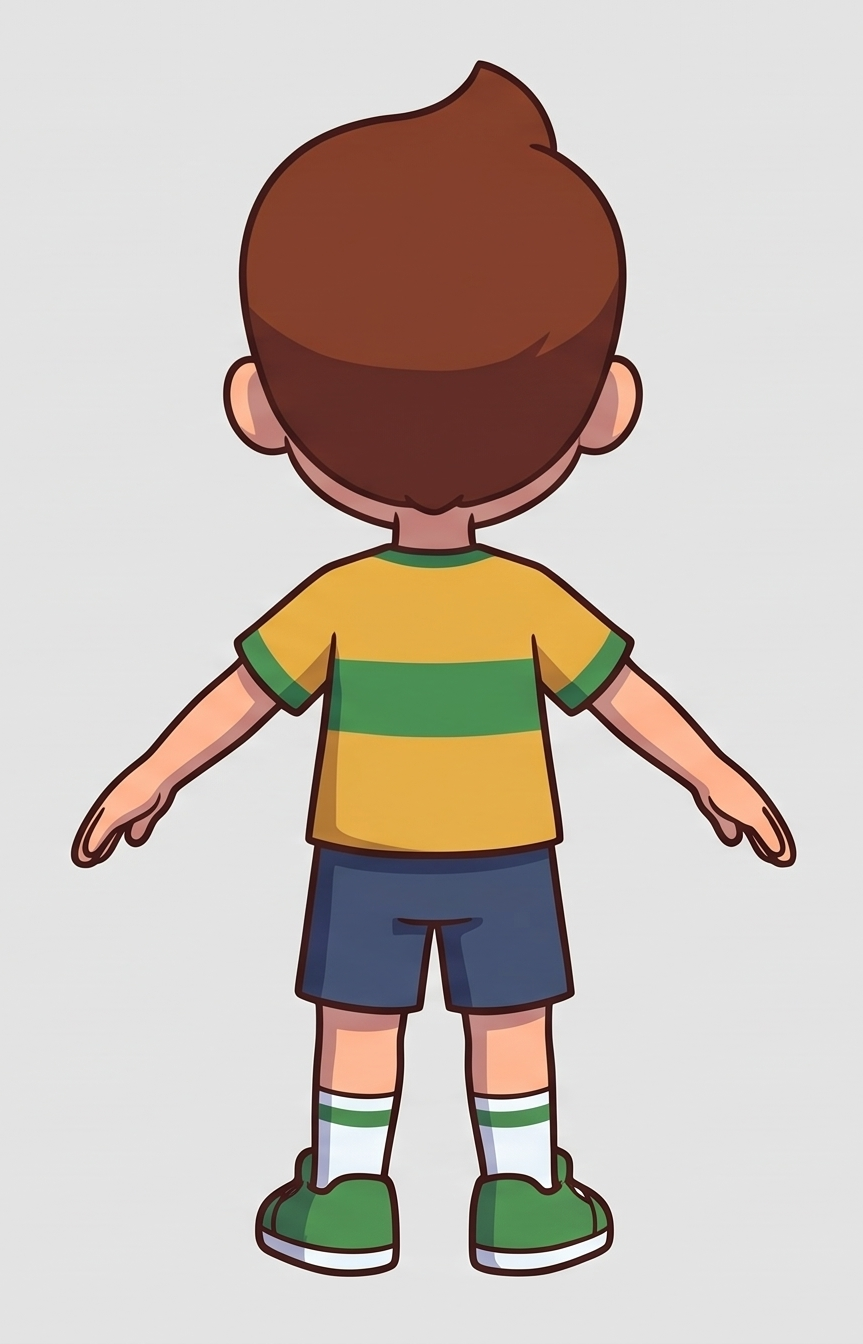
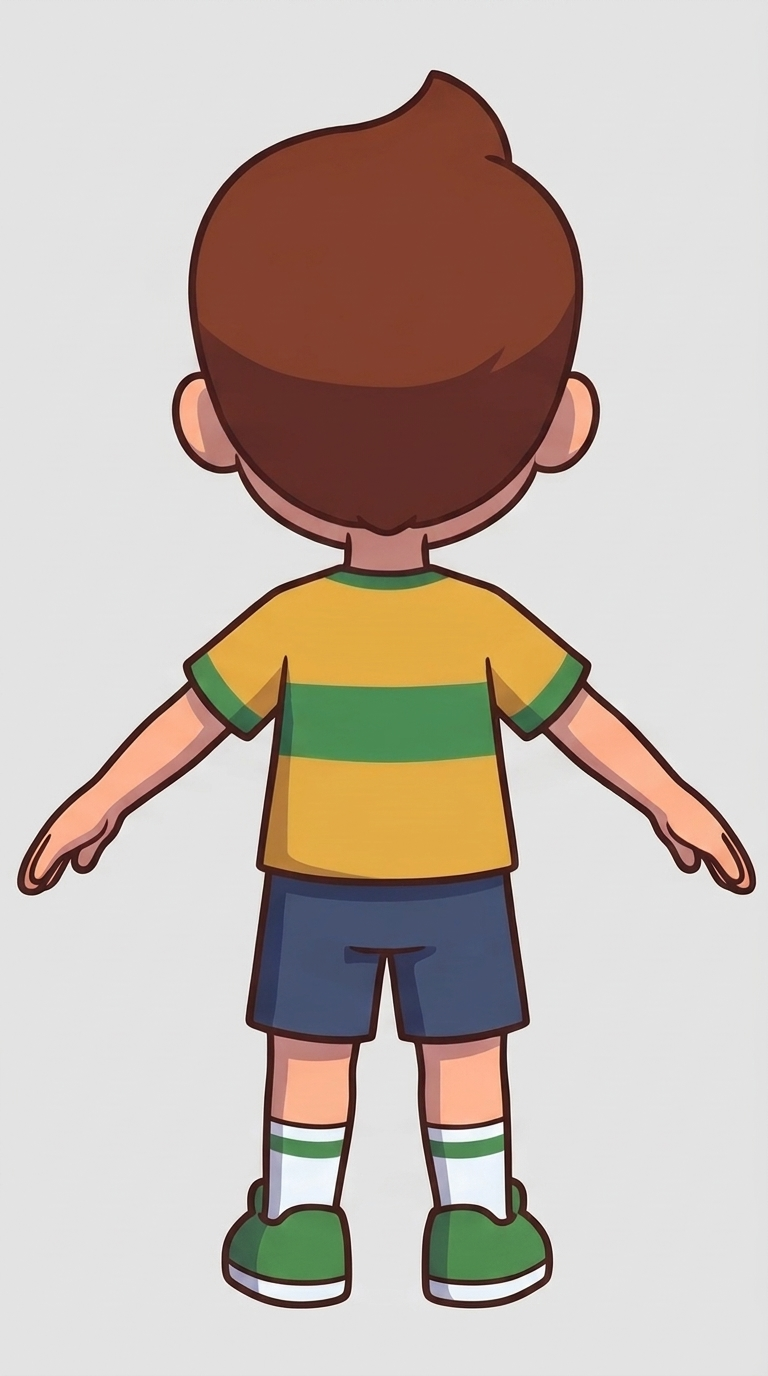
Add prop kits 1-3, girl/boy turnaround sheets, fix boy's shoes
- Prop kit briefs (ground/paths, fences/gates/hedges/walls, signs/boards/
  food boxes) with canonical style blocks; sheets generated with Gemini,
  chosen variants in review; new Props section on the art review page
- Girl and boy turnarounds regenerated as one sheet each and split
- Boy: side and back views edited so the shoes point the right way
- tools/gen_image.py: edit mode (--prompt 0), negative-prompt detection
  via the style file; tools/split_sheet.py for turnaround sheets
- Manifest: prop kit entries; CLAUDE.md: concept-art generation workflow

Changed region(s): [[0.0, 0.4375, 1.0, 0.9688], [0.2188, 0.0625, 0.7812, 0.4375], [0.375, 0.0312, 0.5938, 0.125]]

diff --git a/art/catalog.js b/art/catalog.js
@@ -375,5 +375,51 @@ window.ART_CATALOG = {
         },
       ],
     },
+    {
+      id: "props",
+      title: "Props (modular kits)",
+      intro: "Modular props modelled once and reused, generated as asset sheets from the same high camera angle. Budget ≤ 500 triangles each.",
+      items: [
+        {
+          id: "kit_ground",
+          title: "Kit 1 — ground and paths",
+          status: "in-review",
+          description: "Floor tiles: path straight/curve/T/cross/end, plaza, grass, path edge, sand.",
+          spec: "ART-ENVIRONMENT",
+          brief: "props/kit_ground/brief.md",
+          notes: "Chosen v2 (correct T-junction). v1 is an alternative. Generated with gemini-3-pro-image (2K, 16:9).",
+          images: [
+            { file: "props/kit_ground/sheet_v2.jpg", label: "sheet_v2 (chosen)", required: true },
+            { file: "props/kit_ground/sheet_v1.jpg", label: "sheet_v1 (alternative)" },
+          ],
+        },
+        {
+          id: "kit_fences",
+          title: "Kit 2 — fences, gates, hedges, walls",
+          status: "in-review",
+          description: "Wooden post-and-rail fence, gate (closed/open), tall hedge, outer zoo wall — with corners.",
+          spec: "ART-ENVIRONMENT",
+          brief: "props/kit_fences/brief.md",
+          notes: "Chosen v2. Note: the end post is drawn as a short fence segment. Generated with gemini-3-pro-image (2K, 16:9).",
+          images: [
+            { file: "props/kit_fences/sheet_v2.jpg", label: "sheet_v2 (chosen)", required: true },
+            { file: "props/kit_fences/sheet_v1.jpg", label: "sheet_v1 (alternative)" },
+          ],
+        },
+        {
+          id: "kit_signs",
+          title: "Kit 3 — signs, boards, food boxes",
+          status: "in-review",
+          description: "Enclosure sign (blank, silhouette slot), info board, map board, food box, stack of food boxes — all blank.",
+          spec: "ART-ENVIRONMENT",
+          brief: "props/kit_signs/brief.md",
+          notes: "Chosen v4. First two attempts blended the style-frame scene into the sheet; v3/v4 use the fences sheet as style reference. The enclosure sign panel is not tilted back yet. Generated with gemini-3-pro-image (2K, 16:9).",
+          images: [
+            { file: "props/kit_signs/sheet_v4.jpg", label: "sheet_v4 (chosen)", required: true },
+            { file: "props/kit_signs/sheet_v3.jpg", label: "sheet_v3 (alternative)" },
+          ],
+        },
+      ],
+    },
   ],
 };

diff --git a/tools/gen_image.py b/tools/gen_image.py
@@ -10,7 +10,8 @@ Usage:
       --out style_frame_v1.png style_frame_v2.png style_frame_v3.png --aspect 16:9
 
   --prompt N       N-th full prompt block in the brief (1-based; negative prompts and
-                   short fragments are skipped)
+                   short fragments are skipped); 0 = edit mode: send only --extra with the
+                   --ref image(s), e.g. to fix a detail in an existing image
   --out FILE...    one image is generated per file name (saved in the brief's folder)
   --ref IMAGE...   optional reference images (e.g. the approved style frame, the front view)
   --extra TEXT     appended to the prompt (e.g. "Same character as in the second image.")
@@ -71,13 +72,18 @@ def main():
     if not key:
         sys.exit("GEMINI_API_KEY is not set")
     prompts, negatives = read_blocks(a.brief)
-    if not 1 <= a.prompt <= len(prompts):
-        sys.exit(f"brief has {len(prompts)} full prompts, --prompt {a.prompt} is out of range")
-    prompt = prompts[a.prompt - 1]
-    if a.extra:
-        prompt += "\n\n" + a.extra
-    if negatives:  # Gemini has no negative-prompt field
-        prompt += "\n\nAvoid all of the following: " + negatives[0]
+    if a.prompt == 0:  # edit mode: only --extra, applied to the --ref image(s)
+        if not (a.extra and a.ref):
+            sys.exit("--prompt 0 (edit mode) needs --extra and --ref")
+        prompt = a.extra
+    else:
+        if not 1 <= a.prompt <= len(prompts):
+            sys.exit(f"brief has {len(prompts)} full prompts, --prompt {a.prompt} is out of range")
+        prompt = prompts[a.prompt - 1]
+        if a.extra:
+            prompt += "\n\n" + a.extra
+        if negatives:  # Gemini has no negative-prompt field
+            prompt += "\n\nAvoid all of the following: " + negatives[0]
 
     folder = os.path.dirname(a.brief)
     with concurrent.futures.ThreadPoolExecutor(len(a.out)) as pool:
@@ -100,8 +106,11 @@ def main():
     if done:
         today = datetime.date.today().isoformat()
         refs = ", ref: " + ", ".join(os.path.basename(r) for r in a.ref) if a.ref else ""
-        extra = " + extra text" if a.extra else ""
-        rows = "".join(f"| {today} | {n} | {a.model} ({a.size}, {a.aspect}) | — | prompt {a.prompt} + negative as 'Avoid'{refs}{extra} | generated, to review |\n"
+        if a.prompt == 0:
+            what = "edit: " + a.extra[:80].replace("|", "/") + "…"
+        else:
+            what = f"prompt {a.prompt} + negative as 'Avoid'" + (" + extra text" if a.extra else "")
+        rows = "".join(f"| {today} | {n} | {a.model} ({a.size}, {a.aspect}) | — | {what}{refs} | generated, to review |\n"
                        for n in sorted(done))
         with open(a.brief, "a", encoding="utf-8") as f:
             f.write(rows)

diff --git a/art/props/kit_signs/brief.md b/art/props/kit_signs/brief.md
@@ -1,0 +1,62 @@
+# Brief — `kit_signs` (Kit 3 — signs, boards and food boxes)
+
+Spec: ART-ENVIRONMENT (modular props), GAME-RESCUE, GAME-FEED, GAME-MAP, ART-DIRECTION §4. Style: `art/style/style.md` (comic) — style
+reference image: `art/environment/style_frame/style_frame.png` (approved). Status: **brief**.
+
+## Purpose
+
+The reading props — the core of the gameplay. All text is rendered by the game (ART-ENVIRONMENT §2), so every panel and label plate is **blank**. From the high camera the panels are tilted back towards the camera (≈ 30–45°) so they stay readable.
+
+Props are modelled once and reused (ART-ENVIRONMENT, modular props). Budgets: props
+≤ 500 triangles each, flat-colour textures only (ART-PIPELINE §10).
+
+## Props in this kit
+
+| Asset id | Size (game units, 1 = 1 m) | Notes |
+|---|---|---|
+| `enclosure_sign` | ≈ 2 m wide, on two posts | blank panel + round silhouette slot; tilted back |
+| `info_board` | ≈ 1 m wide, panel at child eye height | blank panel on one post, tilted back like a lectern |
+| `map_board` | ≈ 2.5 m wide | blank map panel with a small roof |
+| `food_box` | ≈ 0.6 m cube | closed wooden crate with blank label plate |
+| `food_box_stack` |  | three stacked food boxes |
+
+## Image settings
+
+- One asset sheet, **16:9, 2K**, generated with the style frame as reference image.
+- Generate 2 variants (`sheet_v1`, `sheet_v2`), pick one; single props can later be cut out
+  for modelling reference.
+
+## Prompt (`sheet.png`)
+
+First paragraph = STYLE block from `art/style/style.md`, verbatim.
+
+```text
+Comic-style 3D cartoon game art with a cel-shaded look: bold clean dark-brown outlines around every object, flat colour areas with one hard-edged shadow tone, simple rounded chunky shapes with friendly exaggerated proportions, big expressive eyes on people and animals, like a colourful children's comic book brought into 3D. No gradients, no fine texture detail, no noise. Bright warm midday sunlight from the upper left, crisp hard-edged shadows. Friendly saturated palette: fresh grass green, warm wood brown, light sand-beige paths, light stone grey, water blue, white. Clean, uncluttered, child-friendly, cheerful mobile game look, crisp focus across the whole image.
+
+Game asset sheet: the props below are laid out in a neat grid with generous empty space between them, each prop isolated and complete, nothing overlapping, nothing cropped, on a plain light grey background (#E6E6E6) with only a soft small contact shadow under each prop. Every prop is shown from the same elevated three-quarter top-down view as in a cozy zoo park simulation game (camera looking down at about 55 degrees, isometric-like, narrow field of view so vertical lines stay nearly parallel), all at the same scale.
+
+Five props in a row with generous space between them: 1) a large wooden enclosure sign on two chunky posts, a wide cream-coloured blank panel with a wooden frame and a small round cream-coloured blank slot on the left side for an animal silhouette, the panel tilted back by about 40 degrees so it faces up towards the camera; 2) a small wooden info board on a single post, a blank cream-coloured panel at the height of a child's eyes, tilted back like a reading desk, a small wooden roof above it; 3) a large wooden map board with a wide blank cream-coloured panel under a small wooden roof, on two posts; 4) a closed wooden food crate with a lid, chunky planks, a blank light label plate on its front; 5) three of the same closed food crates stacked. All panels and label plates are completely blank.
+```
+
+### Negative prompt
+
+```text
+text, letters, words, numbers, writing, captions, writing on signs, watermark, signature, logo, brand names, UI, HUD, scenery, landscape, horizon, sky, characters, people, animals, overlapping props, cropped props, perspective distortion, fisheye, eye-level view, dark, gloomy, dirty, broken, rubbish, voxels, cubes, blocky Minecraft style, pixel art, pixelated textures, photorealistic, realistic photo, realistic fur, hyper-detailed textures, soft painterly gradients, glossy plastic, anime, watercolour, sketchy lines, inconsistent line thickness
+```
+
+## Review checklist (before `concept_approved = true` — user decides)
+
+- [ ] Comic style matches `style_frame.png` (outlines, flat colours, one shadow tone).
+- [ ] All props present, same scale, same camera angle, none cropped or overlapping.
+- [ ] No text anywhere; panels and label plates blank.
+- [ ] Readable at phone size from the high camera.
+- [ ] Buildable as simple low-poly props (≤ 500 tris each).
+
+## Generation log
+
+| Date | File | Tool / model | Seed | Prompt changes | Result |
+|---|---|---|---|---|---|
+| 2026-09-26 | sheet_v1.jpg | gemini-3-pro-image (2K, 16:9) | — | prompt 1 + negative as 'Avoid' + extra text, ref: style_frame.png | discarded (style-frame scene blended into the sheet) |
+| 2026-09-26 | sheet_v2.jpg | gemini-3-pro-image (2K, 16:9) | — | prompt 1 + negative as 'Avoid' + extra text, ref: style_frame.png | discarded (style-frame scene blended into the sheet) |
+| 2026-09-26 | sheet_v3.jpg | gemini-3-pro-image (2K, 16:9) | — | prompt 1 + negative as 'Avoid' + extra text, ref: sheet_v2.jpg | alternative (extra crate, stack of four, roof on enclosure sign) |
+| 2026-09-26 | sheet_v4.jpg | gemini-3-pro-image (2K, 16:9) | — | prompt 1 + negative as 'Avoid' + extra text, ref: sheet_v2.jpg | to review — chosen (ref: kit_fences sheet_v2 instead of the style frame) |

diff --git a/art/props/kit_ground/brief.md b/art/props/kit_ground/brief.md
@@ -1,0 +1,64 @@
+# Brief — `kit_ground` (Kit 1 — ground and paths)
+
+Spec: ART-ENVIRONMENT (modular props), GAME-LAYOUT (surfaces path/grass), GAME-LEVEL-1. Style: `art/style/style.md` (comic) — style
+reference image: `art/environment/style_frame/style_frame.png` (approved). Status: **brief**.
+
+## Purpose
+
+Floor tiles for the tile-based map. Paths are faster to walk on than grass (GAME-PLAYER §6), so path and grass must be clearly different at a glance from the high camera.
+
+Props are modelled once and reused (ART-ENVIRONMENT, modular props). Budgets: props
+≤ 500 triangles each, flat-colour textures only (ART-PIPELINE §10).
+
+## Props in this kit
+
+| Asset id | Size (game units, 1 = 1 m) | Notes |
+|---|---|---|
+| `path_tile_straight` | 2 m × 2 m | light sand-beige paved path, straight |
+| `path_tile_curve` | 2 m × 2 m | 90° curve |
+| `path_tile_t` | 2 m × 2 m | T-junction |
+| `path_tile_cross` | 2 m × 2 m | crossing |
+| `path_tile_end` | 2 m × 2 m | rounded dead end |
+| `plaza_tile` | 2 m × 2 m | larger paving stones for the entrance plaza |
+| `grass_tile` | 2 m × 2 m | short fresh grass with a few tufts |
+| `path_edge` | 2 m long | low edging stones between path and grass |
+| `sand_tile` | 2 m × 2 m | warm sand for enclosure floors |
+
+## Image settings
+
+- One asset sheet, **16:9, 2K**, generated with the style frame as reference image.
+- Generate 2 variants (`sheet_v1`, `sheet_v2`), pick one; single props can later be cut out
+  for modelling reference.
+
+## Prompt (`sheet.png`)
+
+First paragraph = STYLE block from `art/style/style.md`, verbatim.
+
+```text
+Comic-style 3D cartoon game art with a cel-shaded look: bold clean dark-brown outlines around every object, flat colour areas with one hard-edged shadow tone, simple rounded chunky shapes with friendly exaggerated proportions, big expressive eyes on people and animals, like a colourful children's comic book brought into 3D. No gradients, no fine texture detail, no noise. Bright warm midday sunlight from the upper left, crisp hard-edged shadows. Friendly saturated palette: fresh grass green, warm wood brown, light sand-beige paths, light stone grey, water blue, white. Clean, uncluttered, child-friendly, cheerful mobile game look, crisp focus across the whole image.
+
+Game asset sheet: the props below are laid out in a neat grid with generous empty space between them, each prop isolated and complete, nothing overlapping, nothing cropped, on a plain light grey background (#E6E6E6) with only a soft small contact shadow under each prop. Every prop is shown from the same elevated three-quarter top-down view as in a cozy zoo park simulation game (camera looking down at about 55 degrees, isometric-like, narrow field of view so vertical lines stay nearly parallel), all at the same scale.
+
+Nine square ground tiles, each a thin flat slab of exactly the same square size, shown like board-game tiles in a 3 by 3 grid: 1) straight light sand-beige paved path made of large rounded paving stones, grass along both sides; 2) the same path as a 90-degree curve; 3) the same path as a T-junction; 4) the same path as a crossing; 5) the same path ending in a rounded dead end; 6) an entrance plaza tile fully paved with larger light paving stones in a simple pattern; 7) a plain tile of short fresh green grass with a few small tufts; 8) a long narrow strip of low rounded edging stones (a path border); 9) a tile of warm light sand. The paved paths are clearly lighter and smoother than the grass, so path and grass are easy to tell apart. Paths continue seamlessly to the tile edges so the tiles can be placed next to each other.
+```
+
+### Negative prompt
+
+```text
+text, letters, words, numbers, writing, captions, writing on signs, watermark, signature, logo, brand names, UI, HUD, scenery, landscape, horizon, sky, characters, people, animals, overlapping props, cropped props, perspective distortion, fisheye, eye-level view, dark, gloomy, dirty, broken, rubbish, voxels, cubes, blocky Minecraft style, pixel art, pixelated textures, photorealistic, realistic photo, realistic fur, hyper-detailed textures, soft painterly gradients, glossy plastic, anime, watercolour, sketchy lines, inconsistent line thickness
+```
+
+## Review checklist (before `concept_approved = true` — user decides)
+
+- [ ] Comic style matches `style_frame.png` (outlines, flat colours, one shadow tone).
+- [ ] All props present, same scale, same camera angle, none cropped or overlapping.
+- [ ] No text anywhere; panels and label plates blank.
+- [ ] Readable at phone size from the high camera.
+- [ ] Buildable as simple low-poly props (≤ 500 tris each).
+
+## Generation log
+
+| Date | File | Tool / model | Seed | Prompt changes | Result |
+|---|---|---|---|---|---|
+| 2026-09-26 | sheet_v1.jpg | gemini-3-pro-image (2K, 16:9) | — | prompt 1 + negative as 'Avoid' + extra text, ref: style_frame.png | alternative (T-junction drawn as a corner) |
+| 2026-09-26 | sheet_v2.jpg | gemini-3-pro-image (2K, 16:9) | — | prompt 1 + negative as 'Avoid' + extra text, ref: style_frame.png | to review — chosen |

diff --git a/art/props/kit_fences/brief.md b/art/props/kit_fences/brief.md
@@ -1,0 +1,64 @@
+# Brief — `kit_fences` (Kit 2 — fences, gates, hedges, walls)
+
+Spec: ART-ENVIRONMENT (modular props), GAME-LAYOUT (barrier/boundary/enclosure), GAME-LEVEL-1. Style: `art/style/style.md` (comic) — style
+reference image: `art/environment/style_frame/style_frame.png` (approved). Status: **brief**.
+
+## Purpose
+
+Everything that encloses an enclosure or seals the level. Fences keep animals in but must look friendly (never cages — glossary). Hedges and the outer wall form the permanent zoo boundary.
+
+Props are modelled once and reused (ART-ENVIRONMENT, modular props). Budgets: props
+≤ 500 triangles each, flat-colour textures only (ART-PIPELINE §10).
+
+## Props in this kit
+
+| Asset id | Size (game units, 1 = 1 m) | Notes |
+|---|---|---|
+| `fence_wood` | 2 m long, 1.1 m high | post-and-rail, 3 rails |
+| `fence_wood_corner` | post | corner post |
+| `fence_wood_end` | post | end post |
+| `gate_wood_closed` | 2 m wide | enclosure gate, closed |
+| `gate_wood_open` | 2 m wide | same gate, open |
+| `hedge` | 2 m long, 3 m high | tall trimmed hedge |
+| `hedge_corner` | 2 m × 2 m, 3 m high | hedge corner |
+| `zoo_wall` | 2 m long, 2.5 m high | outer zoo wall, light stone with wooden cap |
+| `zoo_wall_corner` |  | wall corner |
+
+## Image settings
+
+- One asset sheet, **16:9, 2K**, generated with the style frame as reference image.
+- Generate 2 variants (`sheet_v1`, `sheet_v2`), pick one; single props can later be cut out
+  for modelling reference.
+
+## Prompt (`sheet.png`)
+
+First paragraph = STYLE block from `art/style/style.md`, verbatim.
+
+```text
+Comic-style 3D cartoon game art with a cel-shaded look: bold clean dark-brown outlines around every object, flat colour areas with one hard-edged shadow tone, simple rounded chunky shapes with friendly exaggerated proportions, big expressive eyes on people and animals, like a colourful children's comic book brought into 3D. No gradients, no fine texture detail, no noise. Bright warm midday sunlight from the upper left, crisp hard-edged shadows. Friendly saturated palette: fresh grass green, warm wood brown, light sand-beige paths, light stone grey, water blue, white. Clean, uncluttered, child-friendly, cheerful mobile game look, crisp focus across the whole image.
+
+Game asset sheet: the props below are laid out in a neat grid with generous empty space between them, each prop isolated and complete, nothing overlapping, nothing cropped, on a plain light grey background (#E6E6E6) with only a soft small contact shadow under each prop. Every prop is shown from the same elevated three-quarter top-down view as in a cozy zoo park simulation game (camera looking down at about 55 degrees, isometric-like, narrow field of view so vertical lines stay nearly parallel), all at the same scale.
+
+Nine props in a 3 by 3 grid: 1) a straight wooden post-and-rail fence segment, warm brown wood, three rounded horizontal rails between two chunky posts with rounded tops, about as high as a child's shoulder; 2) a single wooden corner post of the same fence; 3) a single wooden end post; 4) a closed wooden enclosure gate with a diagonal brace and a simple metal latch, same wood as the fence; 5) the same gate standing open; 6) a straight segment of a tall, neatly trimmed dark-green hedge, clearly taller than an adult, with rounded top edges; 7) a corner piece of the same hedge; 8) a straight segment of a friendly outer zoo wall made of light grey rounded stones with a warm wooden cap on top; 9) a corner piece of the same wall. No bars, no wire, no cages.
+```
+
+### Negative prompt
+
+```text
+text, letters, words, numbers, writing, captions, writing on signs, watermark, signature, logo, brand names, UI, HUD, scenery, landscape, horizon, sky, characters, people, animals, overlapping props, cropped props, perspective distortion, fisheye, eye-level view, dark, gloomy, dirty, broken, rubbish, voxels, cubes, blocky Minecraft style, pixel art, pixelated textures, photorealistic, realistic photo, realistic fur, hyper-detailed textures, soft painterly gradients, glossy plastic, anime, watercolour, sketchy lines, inconsistent line thickness
+```
+
+## Review checklist (before `concept_approved = true` — user decides)
+
+- [ ] Comic style matches `style_frame.png` (outlines, flat colours, one shadow tone).
+- [ ] All props present, same scale, same camera angle, none cropped or overlapping.
+- [ ] No text anywhere; panels and label plates blank.
+- [ ] Readable at phone size from the high camera.
+- [ ] Buildable as simple low-poly props (≤ 500 tris each).
+
+## Generation log
+
+| Date | File | Tool / model | Seed | Prompt changes | Result |
+|---|---|---|---|---|---|
+| 2026-09-26 | sheet_v1.jpg | gemini-3-pro-image (2K, 16:9) | — | prompt 1 + negative as 'Avoid' + extra text, ref: style_frame.png | alternative (corner rails float) |
+| 2026-09-26 | sheet_v2.jpg | gemini-3-pro-image (2K, 16:9) | — | prompt 1 + negative as 'Avoid' + extra text, ref: style_frame.png | to review — chosen (end post drawn as a short segment) |

diff --git a/art/characters/player_boy/brief.md b/art/characters/player_boy/brief.md
@@ -141,3 +141,7 @@ Front view of two children, full body from head to toe, standing side by side at
       are clean shapes that work as a 64 × 64 px face decal.
 | 2026-09-26 | sheet_v1.jpg | gemini-3-pro-image (2K, 21:9) | — | prompt 6 + negative as 'Avoid', ref: style_frame.png, front.png + extra text | alternative (no hair tuft) |
 | 2026-09-26 | sheet_v2.jpg | gemini-3-pro-image (2K, 21:9) | — | prompt 6 + negative as 'Avoid', ref: style_frame.png, front.png + extra text | to review — chosen, split into the four views; side view mirrored (was facing right) |
+| 2026-09-26 | side_fix_v1.jpg | gemini-3-pro-image (1K, 9:16) | — | edit: Edit this character sheet image. Keep everything exactly the same (character, po…, ref: side_before_fix.png | chosen → side.png (shoes now point left) |
+| 2026-09-26 | side_fix_v2.jpg | gemini-3-pro-image (1K, 9:16) | — | edit: Edit this character sheet image. Keep everything exactly the same (character, po…, ref: side_before_fix.png | discarded (alternative) |
+| 2026-09-26 | back_fix_v1.jpg | gemini-3-pro-image (1K, 9:16) | — | edit: Edit this character sheet image. Keep everything exactly the same (character, po…, ref: back_before_fix.png | chosen → back.png (heels visible) |
+| 2026-09-26 | back_fix_v2.jpg | gemini-3-pro-image (1K, 9:16) | — | edit: Edit this character sheet image. Keep everything exactly the same (character, po…, ref: back_before_fix.png | discarded (soles towards camera) |

diff --git a/CLAUDE.md b/CLAUDE.md
@@ -125,6 +125,11 @@ npm --prefix web run lint && npm --prefix web test
   `assets/manifest.toml`. Details: `specs/30-art/asset-pipeline.md`.
 - Create and edit models in Blender through the Blender MCP tools; save the source
   `.blend` in `assets/blender/` and export the `.glb` to `assets/models/` — commit both.
+- **Generating concept art:** `tools/gen_image.py <brief.md> --prompt N --out a.png b.png
+  --ref art/environment/style_frame/style_frame.png` (Gemini, `GEMINI_API_KEY`); `--prompt 0
+  --extra "..." --ref img` edits an image. Characters/animals/props: generate one **sheet**
+  with all views (consistent angles), then `tools/split_sheet.py`. Every generated image is
+  logged in its brief; record choices there and in `art/catalog.js`.
 - **One style for all prompts:** every image prompt copies the blocks from
   `art/style/style.md` verbatim (APIPE-010). Comic look: bold outlines, flat colours, one
   hard shadow tone, rounded chunky shapes. Outlines + cel shading come from the renderer,

diff --git a/art/README.md b/art/README.md
@@ -13,6 +13,7 @@ art/
   index.html                 # review page — renders catalog.js
   catalog.js                 # list of all items, their status and images (edit this)
   reference/                 # external reference images (not our assets)
+  props/<kit_id>/            # brief.md, sheet_v*.jpg (modular prop kits)
   characters/<asset_id>/     # brief.md, front.png, side.png, back.png, three_quarter.png, expressions.png
   animals/<asset_id>/        # brief.md, front.png, side.png, back.png, three_quarter.png
   environment/<asset_id>/    # brief.md, overview.png, player_view.png, layout.md
